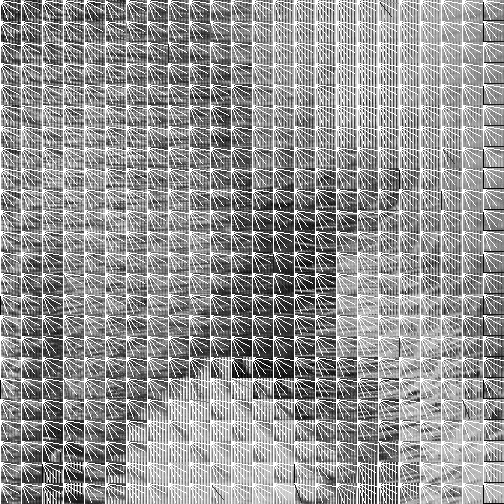
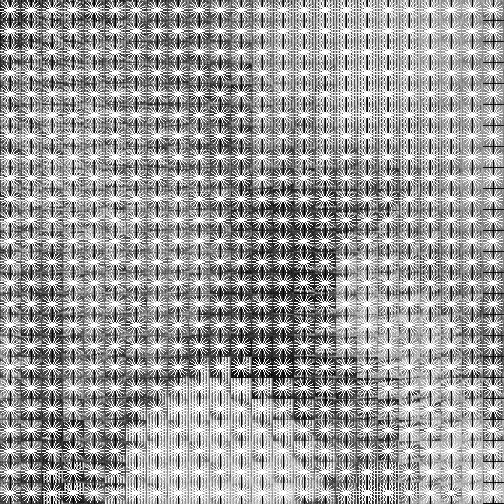
- resolve #1

diff --git a/2DImProExercise/2DImProExercise3/2DImProExercise3.cpp b/2DImProExercise/2DImProExercise3/2DImProExercise3.cpp
@@ -22,9 +22,9 @@ vector<double> ComputeHistogram(Mat *angle, Mat *mag, int d, int index_x, int in
 		for (int j = 0; j < d; ++j)
 		{
 			double x = angle->at<float>(Point(i + index_x*d, j + index_y*d));
-			int mod = (int)floor(x) % 20;
-			mod = mod % 9;
-			hist[mod] = x * mag->at<float>(i, j);
+			int mod = ((int)floor(x) % 20) % 9;
+
+			hist[mod] = 20 * mod * mag->at<float>(i, j);
 		}
 	}
 	return hist;
@@ -71,12 +71,12 @@ void HistogramOrientedGradient(Mat *image, vector<vector<vector<double> > > *lis
 			auto Max = std::max_element((*list)[i][j].begin(), (*list)[i][j].end());
 			for (int l = 0; l < 9; ++l)
 			{
-				Point p1(cellsize*sin((180.0 + l*20) * (PI / 180)), cellsize*cos((180.0 + l * 20) * (PI / 180)));
-				Point p2(cellsize*sin((l * 20) * (PI / 180)), cellsize*cos((l * 20) * (PI / 180)));
+				Point p1(floor(cellsize / 2) + floor(cellsize/2)*sin((180.0 + l*20) * (PI / 180)), floor(cellsize / 2) + floor(cellsize / 2)*cos((180.0 + l * 20) * (PI / 180)));
+				Point p2(floor(cellsize / 2) + floor(cellsize / 2)*sin((l * 20) * (PI / 180)), floor(cellsize / 2) + floor(cellsize / 2)*cos((l * 20) * (PI / 180)));
 
-				double val = (*list)[i][j][l];
+				int color = (*list)[i][j][l] / *Max * 255;
 
-				line(tmp, p1, p2,  val / *Max * 255.0);
+				line(tmp, p1, p2,  color);
 			}
 
 			// include calculation into histogram matrix (hist):
